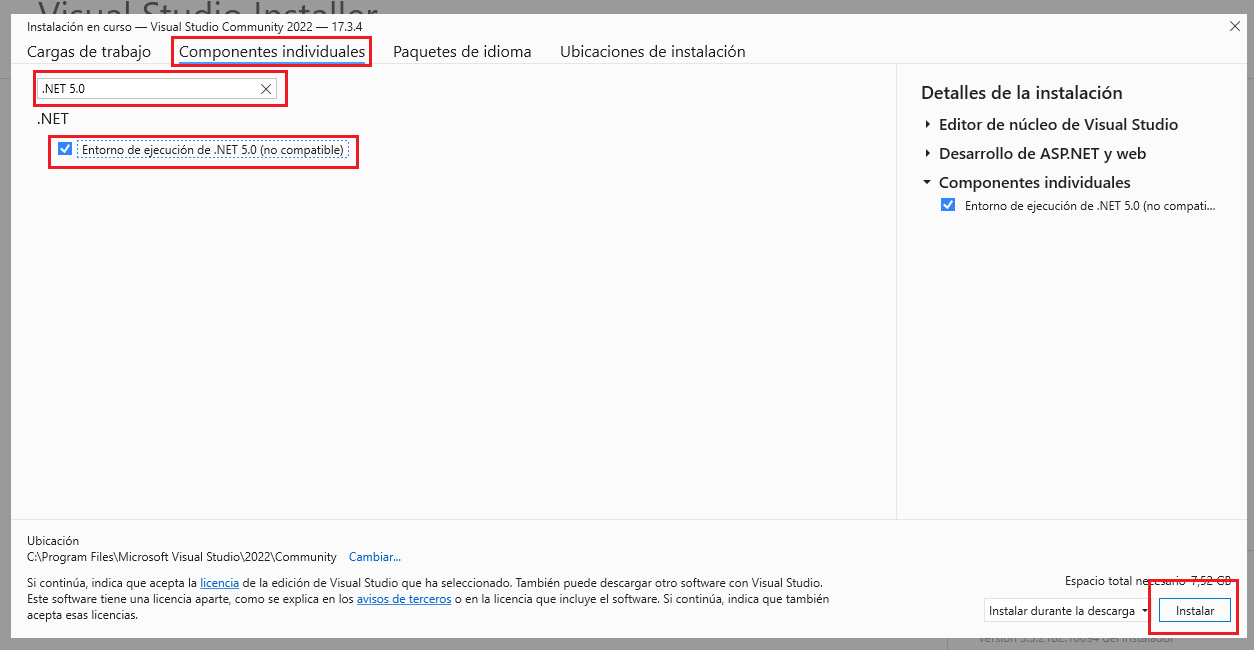
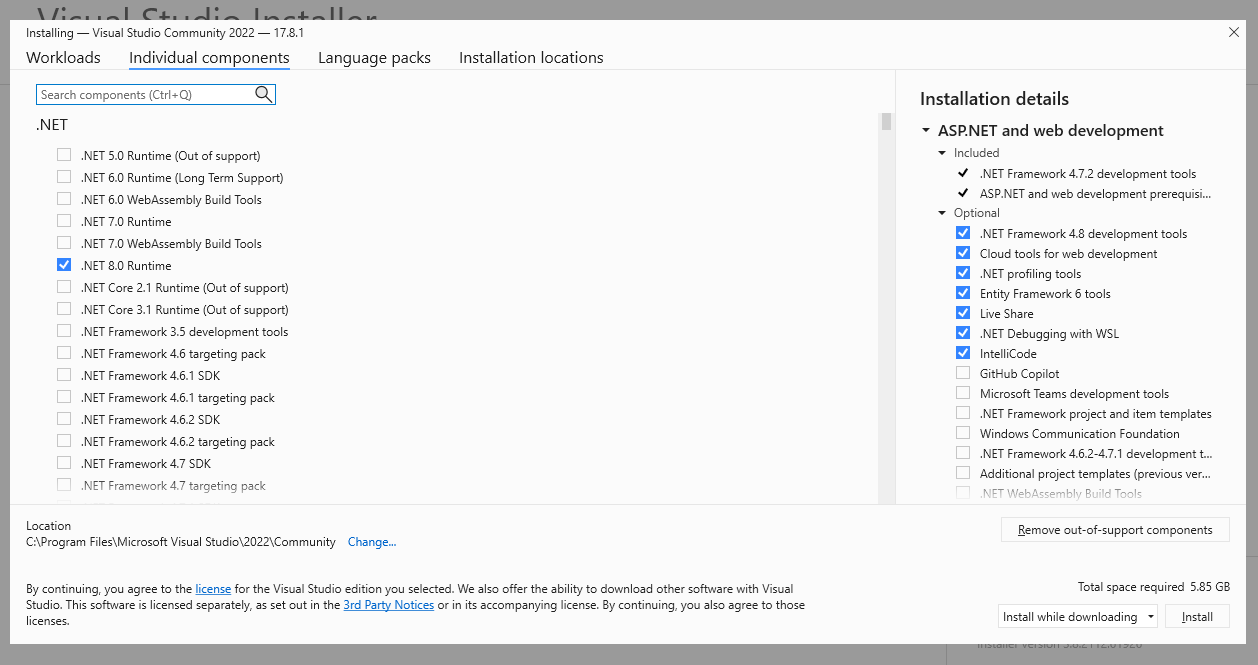
Update hello-world examples

Changed region(s): [[0.0, 0.0, 0.9952, 0.9846], [0.6842, 0.1538, 0.7153, 0.1846]]

diff --git a/01-stack-relacional/02-donet/00-csharp/01-hello-world/readme_es.md b/01-stack-relacional/02-donet/00-csharp/01-hello-world/readme_es.md
@@ -17,21 +17,19 @@ Podemos usar la licencia de la versión community si cumplimos las siguientes re
 
 ## Tipos de proyectos de Visual Studio
 
-Una vez instalado, vamos a iniciar la herramienta y nos aparecen diferentes instalaciones que podemos realizar. 
+Una vez instalado, vamos a iniciar la herramienta y nos aparecen diferentes instalaciones que podemos realizar.
 
 Vamos a seleccionar _Desarrollo de ASP.NET y web_ en _Cargas de Trabajo_:
 
 <img src="./content/install-option1.png" style="zoom:67%;"  >
 
+En _Componentes individuales_, en _Buscar componentes_, comprobamos que _.NET 8.0 Runtime_ está seleccionado:
 
-
-En _Componentes individuales_, en _Buscar componentes_, escribimos _.NET 5.0_ seleccionamos la opción como podemos ver en la siguiente imagen e instalamos:
-
-<img src="./content/install-option2.png" style="zoom:67%;"  > 
+<img src="./content/install-option2.png" style="zoom:67%;"  >
 
 Una vez que tenemos todo instalado, vamos a arrancar Visual Studio y nos aparece la siguiente pantalla, si queremos registrarnos podemos hacerlo, o _omitirlo por el momento_, y por último seleccionamos el tema que queremos elegir e iniciamos la aplicación.
 
-<img src="./content/omit-register.png" style="zoom:67%;"  > 
+<img src="./content/omit-register.png" style="zoom:67%;"  >
 
 Vamos ya a empezar a trabajar con _Visual Studio_ y seleccionamos crear un nuevo proyecto.
 
@@ -55,9 +53,7 @@ Vamos a seleccionar como tipo de proyecto "Aplicación de consola" (versión net
 
 <img src="./content/basic_data_project.png" style="zoom:67%;"  >
 
-Ahora seleccionamos _*.NET 5.0*_ y aunque nos diga _Out of support_ seleccionamos la opción. Vamos a utilizar esta versión de _.NET_ porque el código es más intuitivo y fácil de entender. Para ver más información sobre esto podemos consultar el siguiente [enlace](https://learn.microsoft.com/es-es/dotnet/core/tutorials/top-level-templates). 
-
-Y ya podemos crear nuestro primer proyecto:
+Ahora seleccionamos _*.NET 8.0*_. Y ya podemos crear nuestro primer proyecto:
 
 <img src="./content/basic_data_project2.png" style="zoom:67%;"  >
 
@@ -67,7 +63,7 @@ Una solución es un conjunto de proyectos. Cada proyecto de una solución dará 
 
 Sería conveniente dar un nombre diferente a la solución y al proyecto.
 
-El último paso es seleccionar el *framework* con el que vamos a crear nuestro proyecto.
+El último paso es seleccionar el _framework_ con el que vamos a crear nuestro proyecto.
 
 ## Analizando la creación base de nuestra aplicación
 
@@ -81,7 +77,7 @@ Vemos que se ha creado una carpeta con el nombre de la solución donde dentro te
 
 - .vs: Carpeta oculta para la gestión del visual studio code.
 - carpeta del proyecto.
-- fichero de la solución (extensión *.sln)
+- fichero de la solución (extensión \*.sln)
 
 Dentro de la carpeta del proyecto vemos los ficheros que se han creado de forma automática. Vamos a destacar varios ficheros/carpetas:
 
@@ -90,8 +86,7 @@ Dentro de la carpeta del proyecto vemos los ficheros que se han creado de forma 
 - bin: Donde se generará el ensamblado de nuestro proyecto.
 - obj: Donde se generará los ficheros compilados. (Dos fases: Compile y Link)
 - Properties: Propiedades de nuestro proyecto (definiciones de ejecución, información del ensamblado, etc...)
-- fichero de definición del proyecto (extensión *.csproj).
-- App.config: Fichero de configuración del proyecto.
+- fichero de definición del proyecto (extensión \*.csproj).
 
 ### A nivel de código
 
@@ -101,10 +96,10 @@ Vamos a ver el código generado:
 
 Antes de meternos a explicar conceptos como clases, métodos, vamos a ver conceptos básicos que se pueden observar en este código inicial:
 
-- El lenguaje *C#* es *case-sensitive*. Cuando creamos una variable, clase, método... el identificador que asignamos diferencia entre las mayúsculas y minúsculas.
-- Para limitar bloques de código utilizamos *{ y }*.
+- El lenguaje _C#_ es _case-sensitive_. Cuando creamos una variable, clase, método... el identificador que asignamos diferencia entre las mayúsculas y minúsculas.
+- Para limitar bloques de código utilizamos _{ y }_.
 - Las instrucciones terminan con ;
-- Si necesitamos incluir comentarios en nuestro código podemos utilizar // o /* y */.
+- Si necesitamos incluir comentarios en nuestro código podemos utilizar // o /_ y _/.
 - Con _namespace_ podemos organizar las clases que vamos a ir creando.
 - Si necesitamos una clase que no está en nuestro _namespace_ podemos acceder a ella si hacemos un _using_ de su _namespace_.
 
@@ -113,19 +108,12 @@ Antes de meternos a explicar conceptos como clases, métodos, vamos a ver concep
 Vamos a crear una aplicación simple para ver cómo podemos ejecutarla.
 
 ```diff
-namespace hello_world_project
-{
-    internal class Program
-    {
-        static void Main(string[] args)
-        {
+
 +            var a = 1;
 +            a = a + 1;
 +            Console.WriteLine(a);
 +            Console.ReaLine();
-        }
-    }
-}
+
 ```
 
 Vale, ya podemos ejecutar nuestra aplicación. Lo podemos hacer de varias formas:
@@ -142,27 +130,20 @@ Vale, ya podemos ejecutar nuestra aplicación. Lo podemos hacer de varias formas
 
 Pero, ojo nuestro código ¡no funciona! En la ventana de _Output_ vemos como se ha detectado un problema en nuestro código. Hemos escrito mal el nombre del método _Readline_ por tanto la aplicación no se puede ejecutar.
 
-Desde la ventana de _Error List_ podemos movernos de forma rápida a la línea donde se ha detectado el problema. 
+Desde la ventana de _Error List_ podemos movernos de forma rápida a la línea donde se ha detectado el problema.
 
 <img src="./content/error-readline.png" style="zoom:67%;"  >
 
 Vamos a solucionarlo:
 
 ```diff
-namespace hello_world_project
-{
-    internal class Program
-    {
-        static void Main(string[] args)
-        {
-            var a = 1;
-            a = a + 1;
-            Console.WriteLine(a);
--           Console.ReaLine();
-+           Console.ReadLine();
-        }
-    }
-}
+
+    var a = 1;
+    a = a + 1;
+    Console.WriteLine(a);
+-   Console.ReaLine();
++   Console.ReadLine();
+
 ```
 
 Ahora si podemos ejecutar la aplicación y ver el resultado por consola.
@@ -226,20 +207,11 @@ Otras herramientas muy útiles son las acciones rápidas o refactorización de c
 Vamos a modificar nuestro código para ver cómo se utilizan estas herramientas:
 
 ```diff
-namespace hello_world_project
-{
-    internal class Program
-    {
-        static void Main(string[] args)
-        {
-             var a = 1;
--             a = a + 1;
-+            a = a * Math.PI;
-             Console.WriteLine(a);
-             Console.ReadLine();
-        }
-    }
-}
+    var a = 1;
+-   a = a + 1;
++   a = a * Math.PI;
+    Console.WriteLine(a);
+    Console.ReadLine();
 ```
 
 Aparece un error porque no sabe cómo convertir un valor _double_ a _int_ (lo veremos más adelante). Si ponemos el ratón encima del error, y si esperamos unos segundos, aparecerá la bombilla indicando que hay un error y nos va a proponer las soluciones disponibles.
@@ -250,7 +222,7 @@ Seleccionamos la opción _Add explicit cast_ para hacer el casting de forma auto
 
 Otra acción que podemos realizar es la refactorización de código. Vamos a verlo en el ejemplo.
 
-Seleccionamos **(int)(a * Math.PI)** y esperamos unos segundo a que aparezca el destornillador o la bombilla. Al hacer clic sobre le destornillador se nos presentan todas las posible acciones que podemos realizar para mejorar el código.
+Seleccionamos **(int)(a \* Math.PI)** y esperamos unos segundo a que aparezca el destornillador o la bombilla. Al hacer clic sobre le destornillador se nos presentan todas las posible acciones que podemos realizar para mejorar el código.
 
 ![Refactorización](./content/refactor.png)
 
